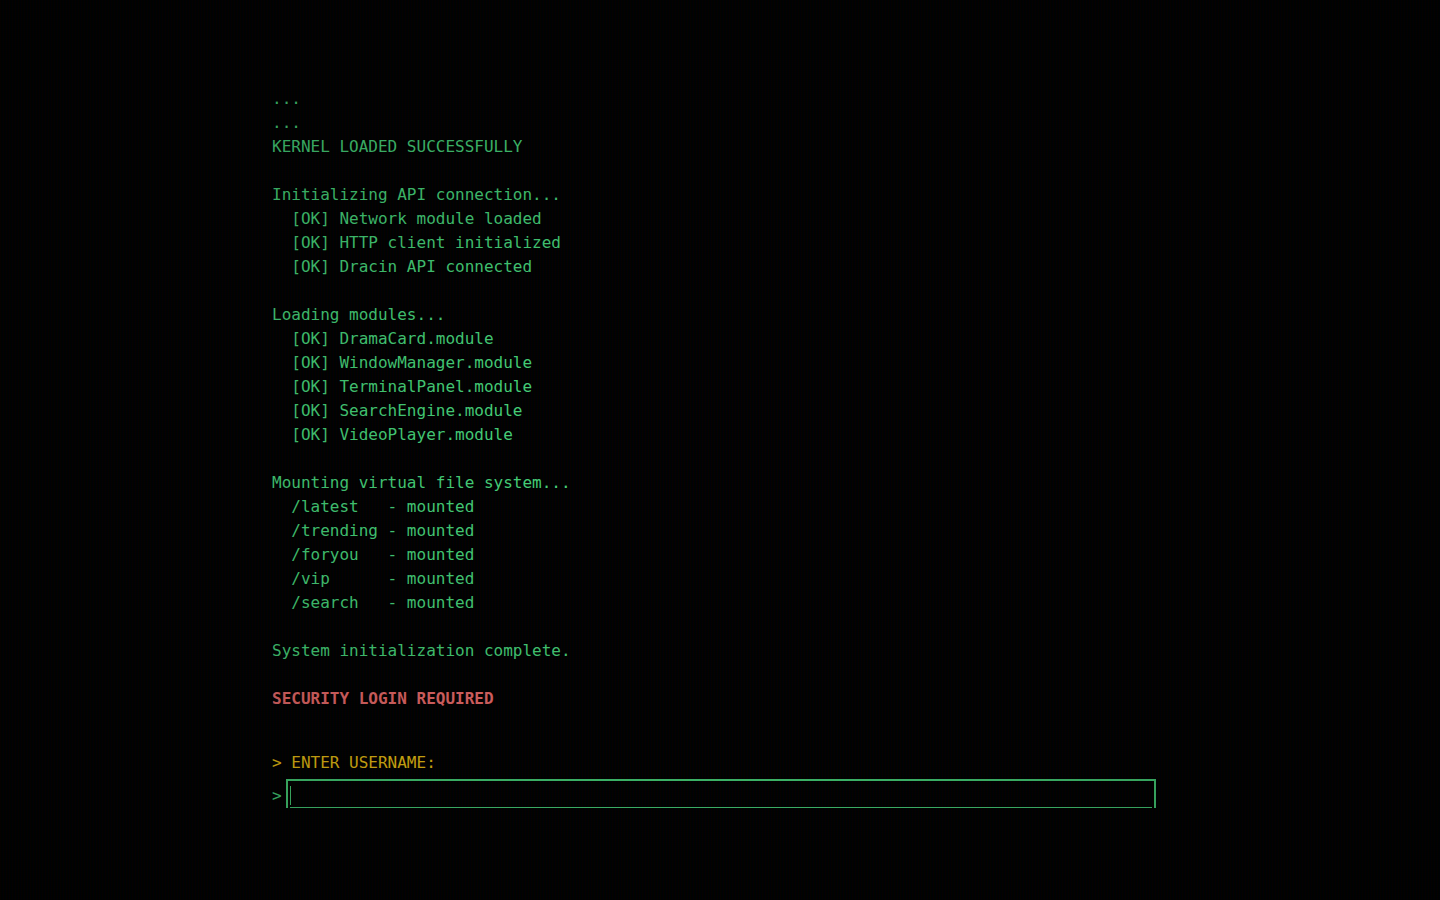
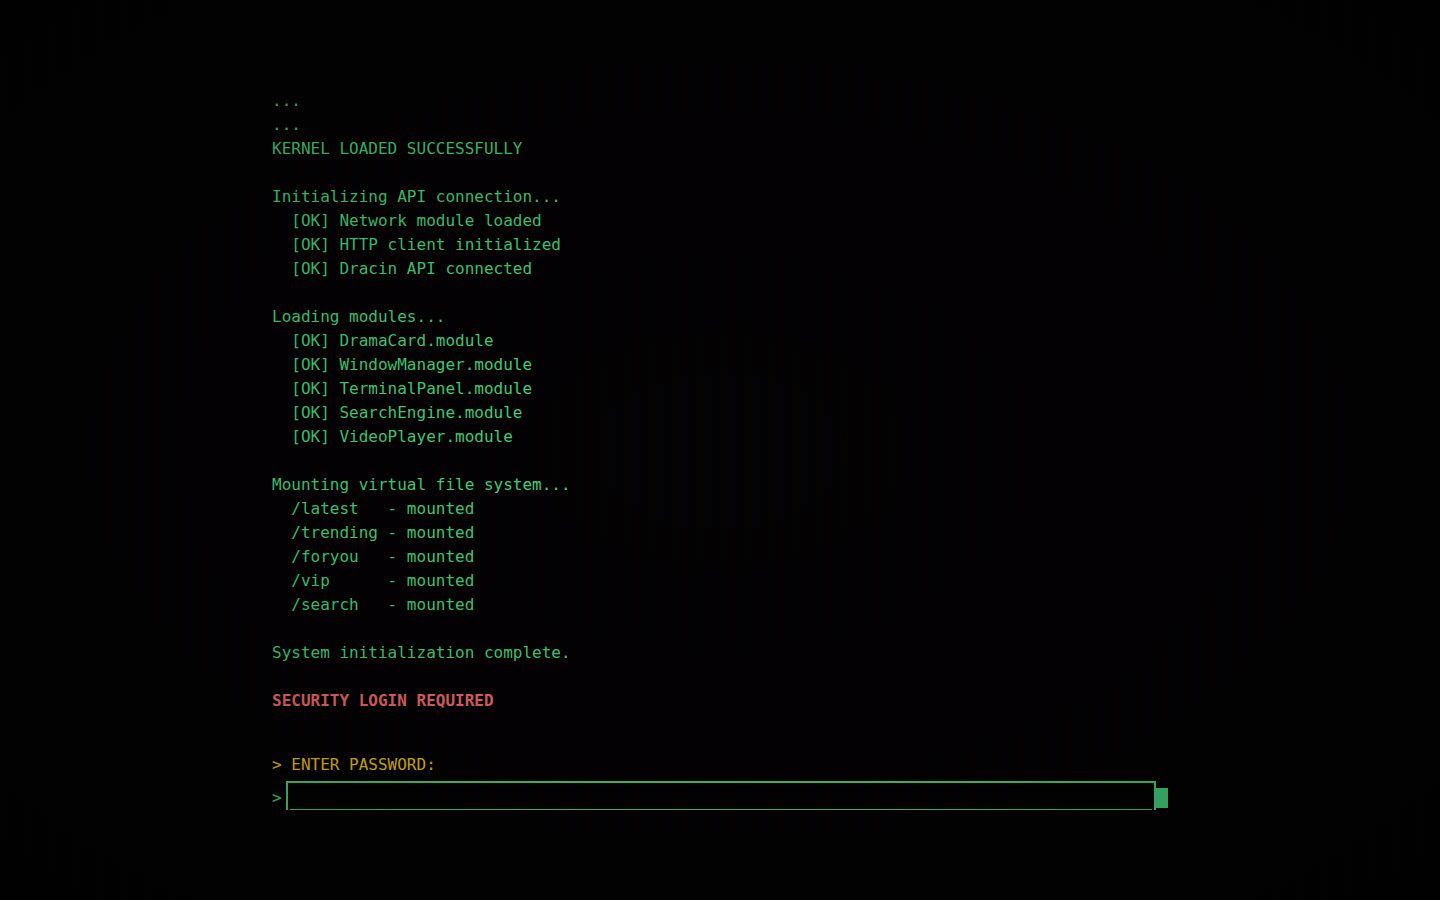
feat: Add ACCESS_PASSWORD env variable, fix screenshots, update README
- Add ACCESS_PASSWORD to .env.example and docker-compose.example.yml
- Make password configurable via VITE_ACCESS_PASSWORD
- Update screenshots with logged-in state (boot, desktop, mobile, history, terminal, player)
- Add boot.png screenshot to README
- Update configuration table with ACCESS_PASSWORD

diff --git a/app/src/config/auth.ts b/app/src/config/auth.ts
@@ -1,9 +1,9 @@
 // Authentication configuration
-// NOTE: This is client-side only authentication for demo purposes
-// Password is visible in source code - NOT for production use
+// Password can be set via VITE_ACCESS_PASSWORD environment variable
+// Default is 'dracin123' if not set
 
 export const AUTH_CONFIG = {
-  PASSWORD: 'marimakan',
+  PASSWORD: import.meta.env.VITE_ACCESS_PASSWORD || 'dracin123',
   SESSION_DURATION_DAYS: 7,
   STORAGE_KEY: 'dracin_session',
 } as const;

diff --git a/README.md b/README.md
@@ -9,6 +9,10 @@ A retro-styled drama streaming web application with a unique terminal/desktop in
 
 ## 📸 Screenshots
 
+### Boot Screen
+![Boot Screen](./screenshots/boot.png)
+*Retro BIOS-style boot sequence with password login*
+
 ### Desktop Interface
 ![Desktop Interface](./screenshots/desktop.png)
 *Retro desktop environment with draggable windows*
@@ -201,6 +205,7 @@ docker-compose logs -f
 | `PUBLIC_URL` | Public URL | No | `https://your-domain.com` |
 | `PRIMARY_API_URL` | Main API endpoint | **Yes** | `https://api.primary.url` |
 | `BACKUP_API_URL` | Failover API | No | `https://api.backup.url` |
+| `ACCESS_PASSWORD` | Login password | No | `yourpassword123` |
 
 **Note:** You must provide your own API endpoints. The application will not work without valid API URLs.
 
